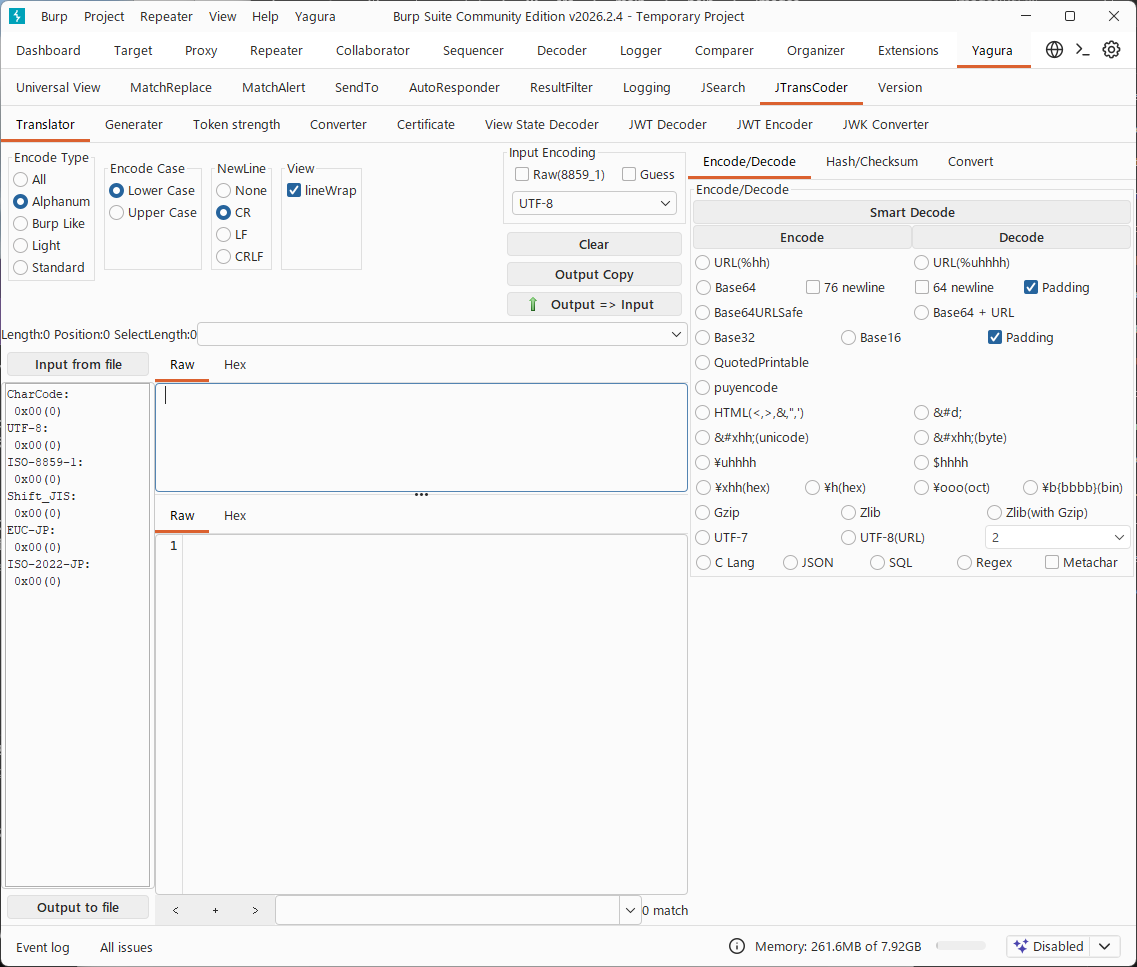
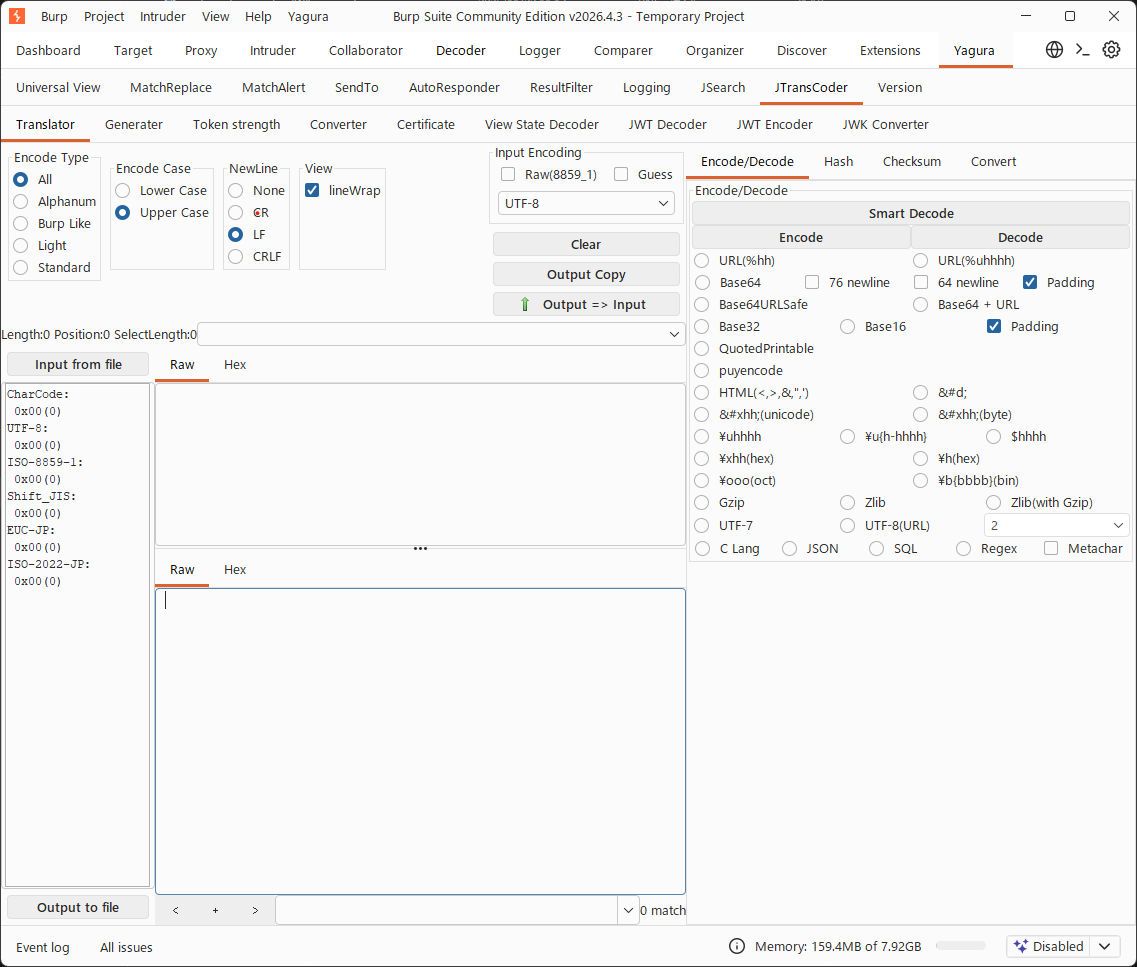
Help 更新

diff --git a/help/help.html b/help/help.html
@@ -440,7 +440,7 @@ body.book #toc,body.book #preamble,body.book h1.sect0,body.book .sect1>h2{page-b
 <div id="header">
 <h1>YaguraExtension Help</h1>
 <div class="details">
-<span id="revnumber">version v3.3.7.0</span>
+<span id="revnumber">version v3.3.8.0</span>
 </div>
 <div id="toc" class="toc2">
 <div id="toctitle">Table of Contents</div>
@@ -2451,6 +2451,14 @@ The following meta characters are available.</p>
 <dd>
 <p>Calculate hash with SKEIN-1024-1024</p>
 </dd>
+<dt class="hdlist1">KECCAK-224</dt>
+<dd>
+<p>Calculate hash with KECCAK-224</p>
+</dd>
+<dt class="hdlist1">KECCAK-256</dt>
+<dd>
+<p>Calculate hash with KECCAK-256</p>
+</dd>
 <dt class="hdlist1">KECCAK-288</dt>
 <dd>
 <p>Calculate hash with KECCAK-288</p>
@@ -2486,6 +2494,10 @@ The following meta characters are available.</p>
 <dt class="hdlist1">RIPEMD320</dt>
 <dd>
 <p>Calculate hash with RIPEMD320</p>
+</dd>
+<dt class="hdlist1">GOST3411</dt>
+<dd>
+<p>Calculate hash with GOST3411</p>
 </dd>
 <dt class="hdlist1">GOST2012-256</dt>
 <dd>
@@ -2543,10 +2555,6 @@ The following meta characters are available.</p>
 <dd>
 <p>Calculate hash with BLAKE3-256</p>
 </dd>
-<dt class="hdlist1">Tiger</dt>
-<dd>
-<p>Calculate hash with Tiger</p>
-</dd>
 <dt class="hdlist1">PARALLEL128-256</dt>
 <dd>
 <p>Calculate hash with PARALLELHASH128-256</p>
@@ -2555,17 +2563,9 @@ The following meta characters are available.</p>
 <dd>
 <p>Calculate hash with PARALLELHASH256-512</p>
 </dd>
-<dt class="hdlist1">TUPLE128-256</dt>
+<dt class="hdlist1">Tiger</dt>
 <dd>
-<p>Calculate hash with TUPLEHASH128-256</p>
-</dd>
-<dt class="hdlist1">TUPLE256-512</dt>
-<dd>
-<p>Calculate hash with TUPLEHASH256-512</p>
-</dd>
-<dt class="hdlist1">GOST3411</dt>
-<dd>
-<p>Calculate hash with GOST3411</p>
+<p>Calculate hash with Tiger</p>
 </dd>
 <dt class="hdlist1">WHIRLPOOL</dt>
 <dd>
@@ -2574,14 +2574,6 @@ The following meta characters are available.</p>
 <dt class="hdlist1">SM3</dt>
 <dd>
 <p>Calculate hash with SM3</p>
-</dd>
-<dt class="hdlist1">PARALLEL128-256</dt>
-<dd>
-<p>Calculate hash with PARALLELHASH128-256</p>
-</dd>
-<dt class="hdlist1">PARALLEL256-512</dt>
-<dd>
-<p>Calculate hash with PARALLELHASH256-512</p>
 </dd>
 <dt class="hdlist1">TUPLE128-256</dt>
 <dd>
@@ -2627,6 +2619,13 @@ The following meta characters are available.</p>
 <dd>
 <p>Calculate hash with Xoodyak</p>
 </dd>
+</dl>
+</div>
+</div>
+<div class="sect4">
+<h5 id="_checksum">Checksum</h5>
+<div class="dlist">
+<dl>
 <dt class="hdlist1">CRC32</dt>
 <dd>
 <p>Calculate checksum by crc32</p>
@@ -2638,6 +2637,42 @@ The following meta characters are available.</p>
 <dt class="hdlist1">Adler-32</dt>
 <dd>
 <p>Calculate checksum by Adler-32</p>
+</dd>
+<dt class="hdlist1">CRC16/ARC</dt>
+<dd>
+<p>Calculate checksum by CRC16/ARC</p>
+</dd>
+<dt class="hdlist1">CRC16/CCIT</dt>
+<dd>
+<p>Calculate checksum by CRC16-CCIT</p>
+</dd>
+<dt class="hdlist1">CRC16-DNP</dt>
+<dd>
+<p>Calculate checksum by CRC16-DNP</p>
+</dd>
+<dt class="hdlist1">CRC16-IBM-SDLC</dt>
+<dd>
+<p>Calculate checksum by CRC16-IBM-SDLC</p>
+</dd>
+<dt class="hdlist1">CRC16-MAXIM</dt>
+<dd>
+<p>Calculate checksum by CRC16-MAXIM</p>
+</dd>
+<dt class="hdlist1">CRC16-MCRF4XX</dt>
+<dd>
+<p>Calculate checksum by CRC16-MCRF4XX</p>
+</dd>
+<dt class="hdlist1">CRC16-MODBUS</dt>
+<dd>
+<p>Calculate checksum by CRC16-MODBUS</p>
+</dd>
+<dt class="hdlist1">CRC16-NRSC-5</dt>
+<dd>
+<p>Calculate checksum by CRC16-NRSC-5</p>
+</dd>
+<dt class="hdlist1">CRC16-USB</dt>
+<dd>
+<p>Calculate checksum by CRC16-USB</p>
 </dd>
 <dt class="hdlist1">MurmurHash2/32</dt>
 <dd>
@@ -3404,8 +3439,8 @@ This option may not work for items that contain binaries. In that case, use the 
 </div>
 <div id="footer">
 <div id="footer-text">
-Version v3.3.7.0<br>
-Last updated 2026-04-04 21:11:30 +0900
+Version v3.3.8.0<br>
+Last updated 2026-05-26 20:11:16 +0900
 </div>
 </div>
 </body>